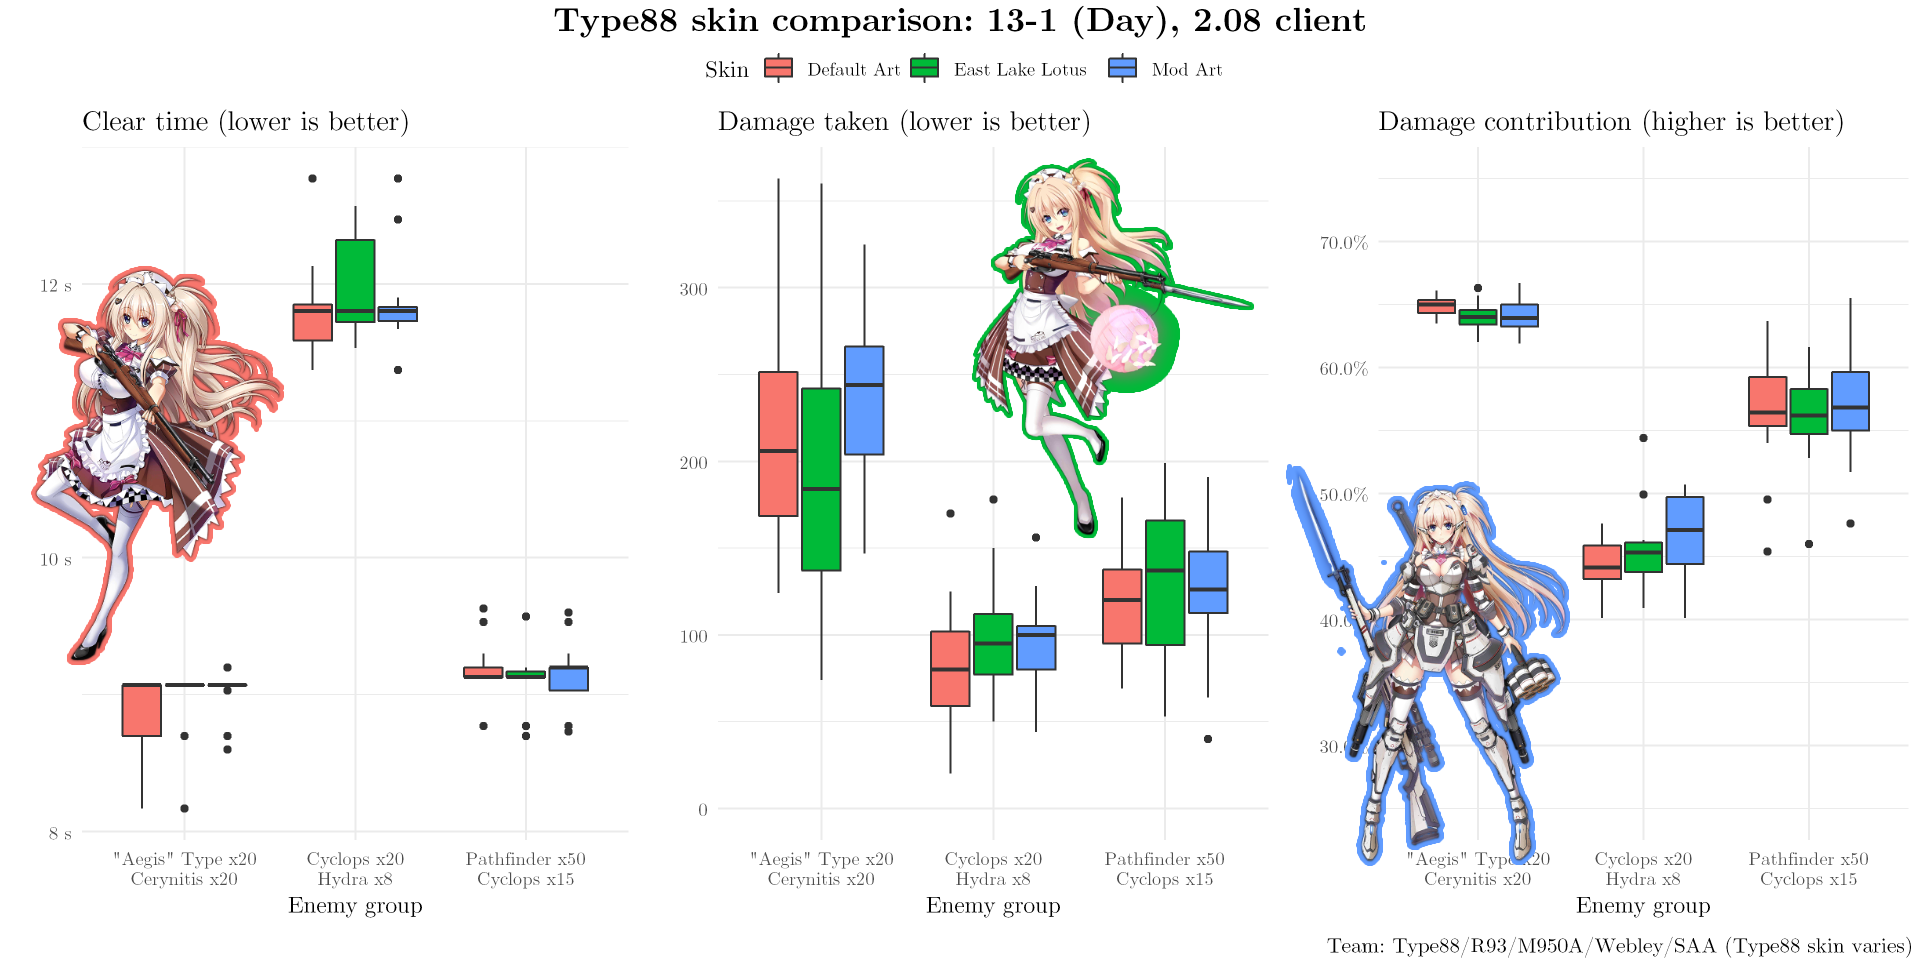
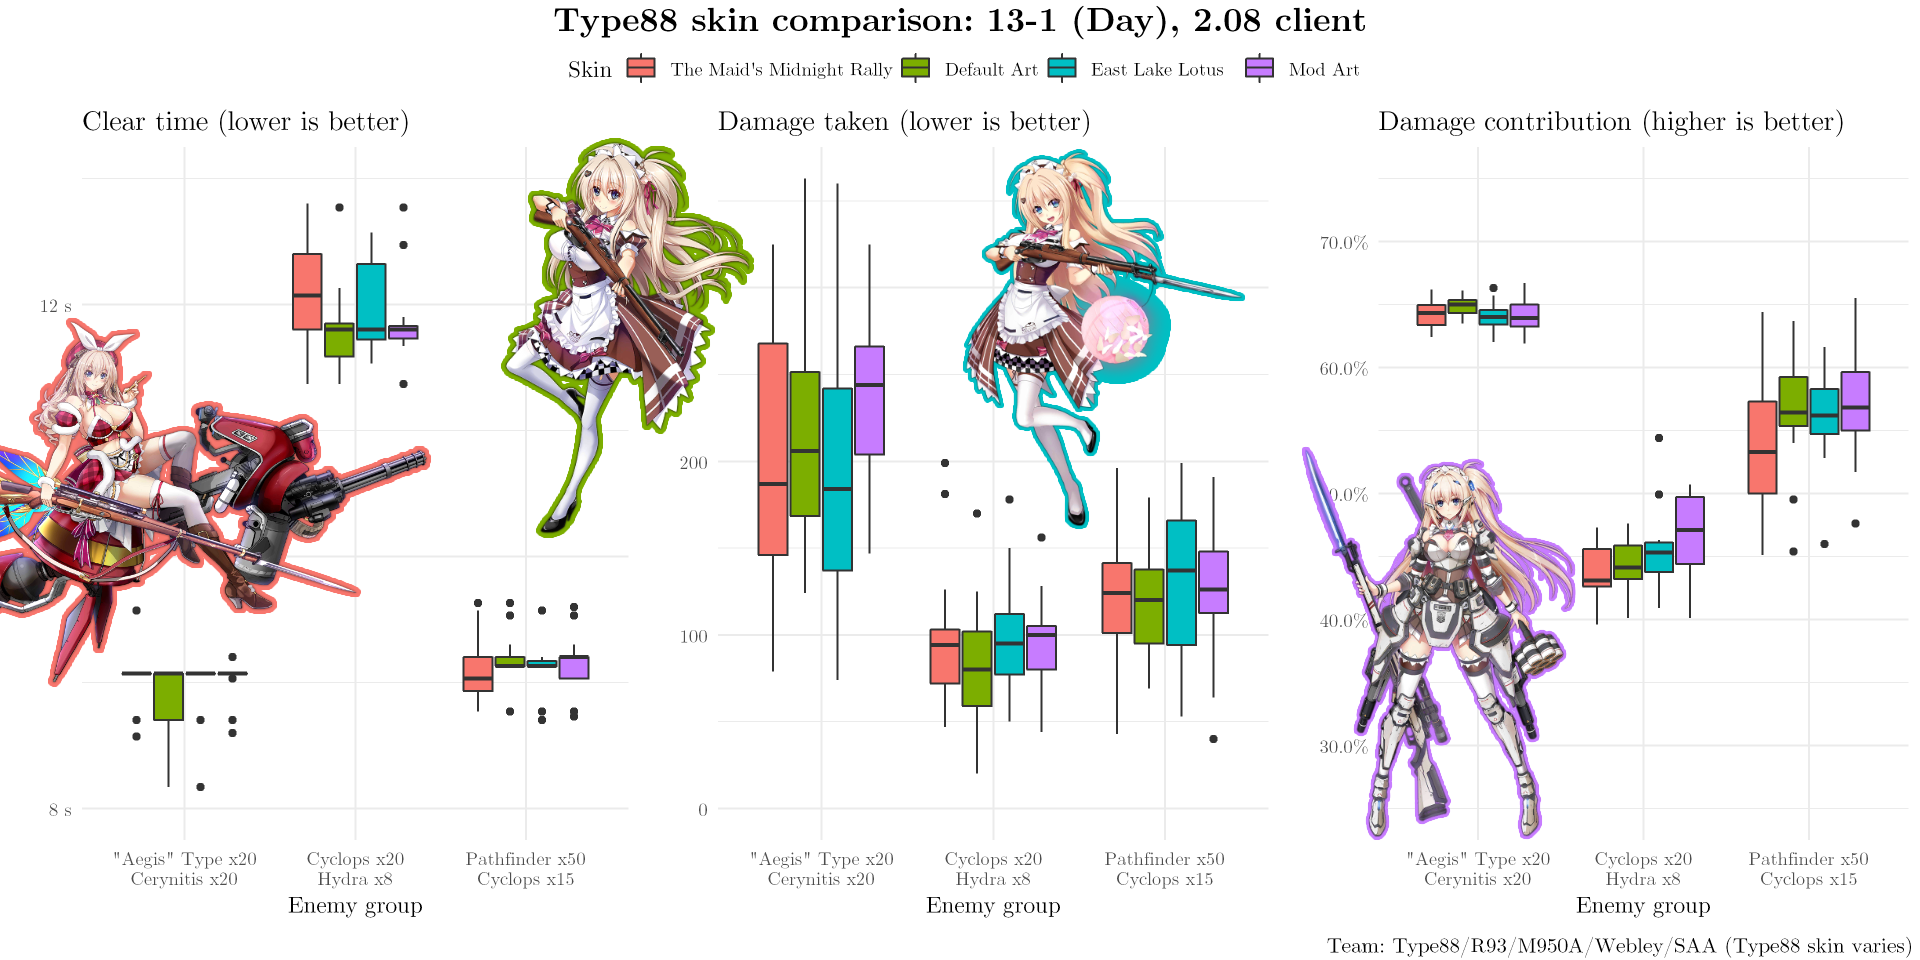
hanyangle: update with Midnight Rally skin data. newquip: minor updates.

diff --git a/pages/newquip.html b/pages/newquip.html
@@ -46,10 +46,11 @@ gtag('config', 'G-805N997DPC');
 <section>
 <div class="inner">
 <header class="major">
-	<h1>New Doll Equipment: First Impressions</h1>
+	<h1>New Doll Equipment: Full Analysis</h1>
+	<!-- <h1>New Doll Equipment: First Impressions</h1> -->
 </header>
 
-<center><em>By BigStupidJellyfish | 2021-April-11 | Updated 2021-December-21</em></center>
+<center><em>By BigStupidJellyfish | 2021-April-11 | Updated 2021-December-28</em></center>
 
 <!-- New Equipment (Maxed Calibration & +10 Enhancement)
 
@@ -195,7 +196,9 @@ Future (unreleased) enemies will also have even higher armor values.</p>
 <div class="figure">
 <img src="images/newquip/slap.png" width="100%"/>
 </div>
-
+<p>
+	(Reload speed in seconds is <code>4+200/ROF</code>, or <code>floor((4+200/ROF)*30)</code> for the exact frame delay.)
+</p>
 <p>
 	Green SLAP rounds are a nice budget alternative to normal AP ammo on MGs - they provide ~190-195 AP before any calibration/enhancement, and are trivial to get from the IOP Special Orders (though the 5-star rates are <a href="https://gf-db.github.io/gfdb/gfdb.html?mp=10&ammo=300&mre=10&part=10&tier=-1&type=equip_recipe&epoch.equip=22.0">also high there</a>).
 </p>
@@ -261,7 +264,9 @@ Don't use this to try and fight Patrollers with regular ARSMG/RFHG teams. See al
 	<img src="images/newquip/flare-day.png" width="100%"/>
 </div>
 <ul>
-	<li>At day, it takes 3 flares to start getting a 5%+ DPS boost against normal evasions on ARs and RFs.</li>
+	<li>At day, it takes 3 flares to start getting a 5%+ DPS boost against normal evasions on ARs and RFs.
+		Any other accuracy buffs (like from fairy auras) will greatly diminish their value.
+	</li>
 </ul>
 <div class="figure">
 	<img src="images/newquip/flare-para-day.png" width="100%"/>
@@ -273,7 +278,10 @@ Don't use this to try and fight Patrollers with regular ARSMG/RFHG teams. See al
 	<img src="images/newquip/flare-night.png" width="100%"/>
 </div>
 <ul>
-	<li>At night, flares are awesome - even one flare is a 5%+ DPS boost against most targets, and getting three in a normal RFHG can up your rifle's DPS by ~15-20%.</li>
+	<li>
+		At night, flares are awesome - even one flare is a 5%+ DPS boost against most targets, and getting three in a normal RFHG can up your rifle's DPS by ~15-20%.
+		Keep in mind that ARs would follow the day chart, as PEQs negate the night penalty.
+	</li>
 </ul>
 <p>
 	Additional note: these make triggering Pekola almost free even if you lack a 5-star (Fervor) fairy.

diff --git a/pages/hanyangle.html b/pages/hanyangle.html
@@ -206,10 +206,10 @@ gtag('config', 'G-805N997DPC');
 <p>
 	So the idea of her hitboxes being messed up by skins remains a myth.
 	Careful inspection may show <a href="https://i.imgur.com/AVRfPkW.png">miniscule pixel differences</a> in the laser graphic depending on how you look at it, but you need a lot more than that to establish a real combat performance difference.
-	<!-- Percentages in table form: -->
+	Percentages in table form:
 </p>
 
-<!-- <center>
+<center>
 	<table style="width:100%">
 	  <tr>
 		<th>Skin</th>
@@ -237,12 +237,12 @@ gtag('config', 'G-805N997DPC');
 	  </tr>
 	  <tr>
 		<td>Christmas skin</td>
-		<td><font color="c23127">TBD%</font></td>
-		<td><font color="c23127">TBD%*</font></td>
-		<td><font color="2aa889">TBD%</font></td>
+		<td><font color="c23127">+0.52%</font></td>
+		<td><font color="2aa889">-0.76%*</font></td>
+		<td><font color="c23127">-0.95%</font></td>
 	  </tr>
 	</table>
-</center> -->
+</center>
 <p>
 	These are all well within expected experimental variation. <!-- Damage will easily swing more with one or two unlucky runs.--> <strong>This does not suggest any skin will lead to faster clear times/less damage taken</strong>.
 </p>
